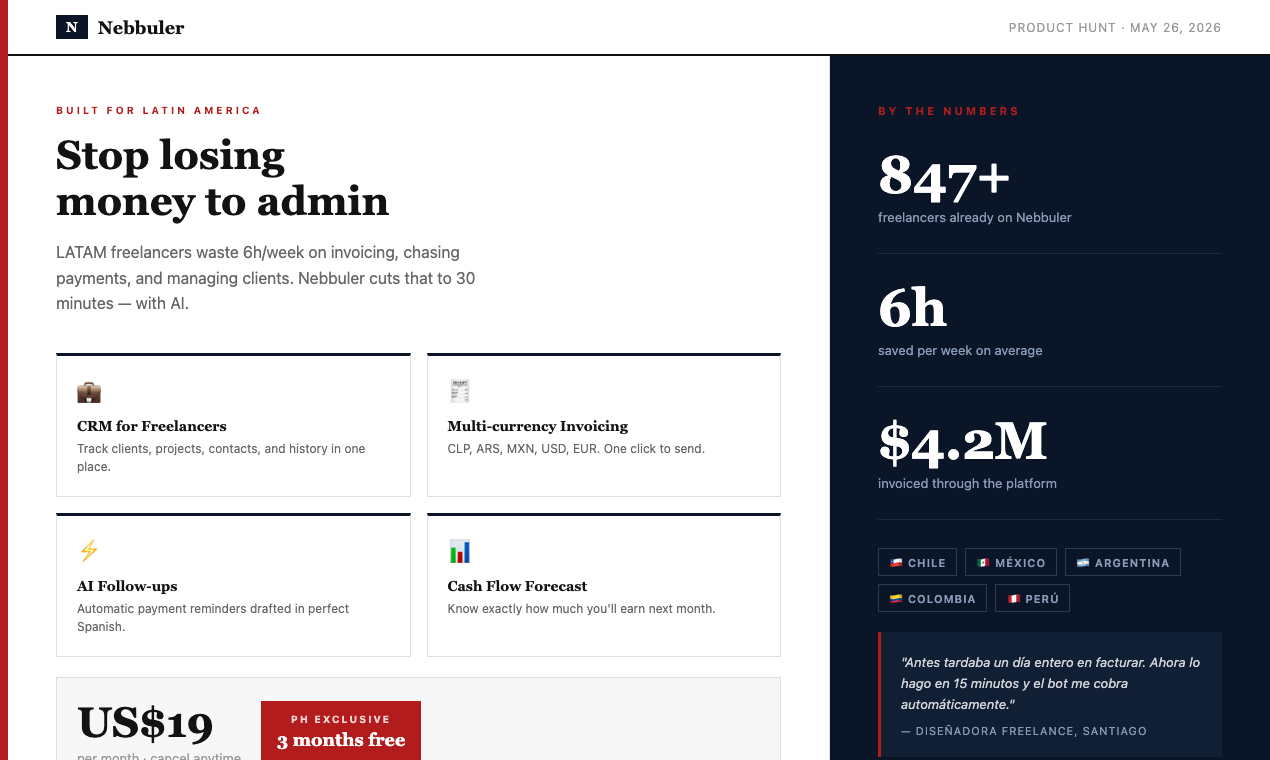
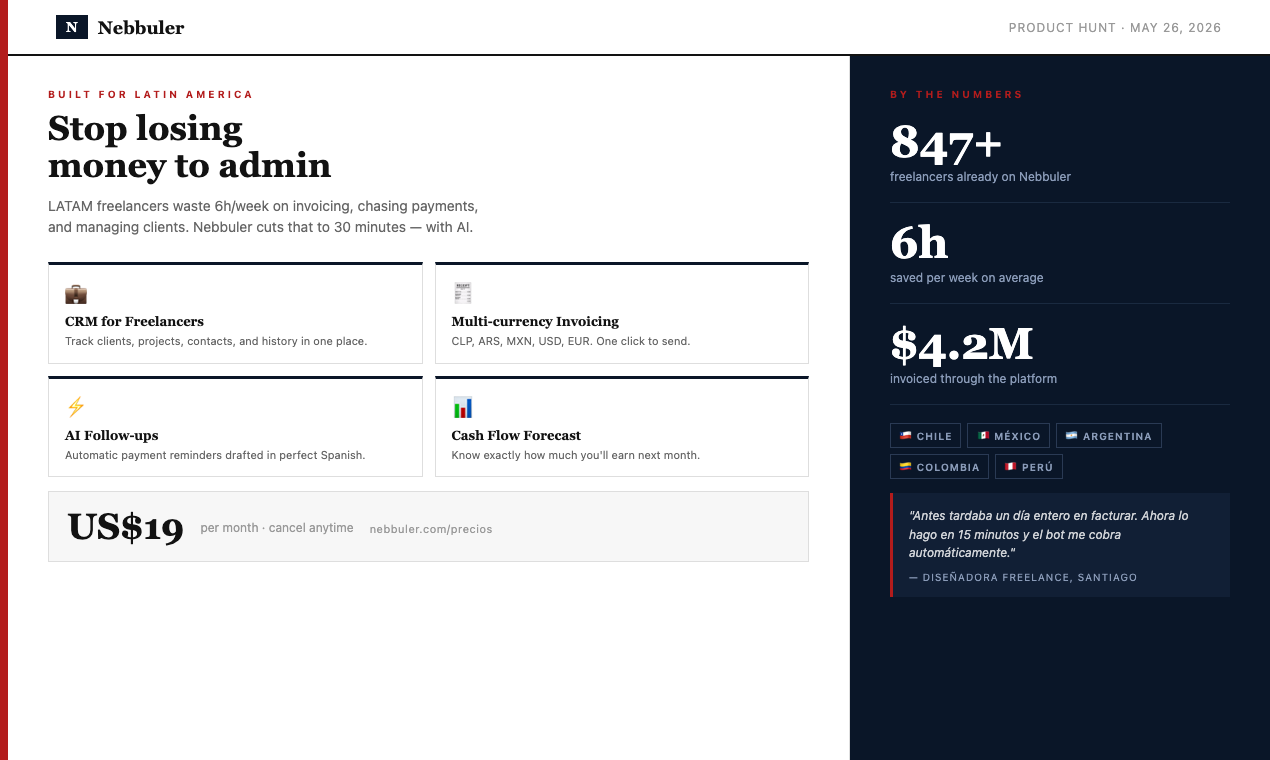
fix(product-hunt): gallery 3 — sin oferta, layout completo sin cortes

diff --git a/public/product-hunt/ph-gallery-3.html b/public/product-hunt/ph-gallery-3.html
@@ -31,55 +31,51 @@
     position: absolute; top: 56px; left: 8px; right: 0; bottom: 0;
     display: flex;
   }
-  .left-col { flex: 1; padding: 48px; border-right: 1px solid #DEDEDE; }
-  .right-col { width: 440px; padding: 48px; background: #0A1628; }
+  .left-col { flex: 1; padding: 32px 40px; border-right: 1px solid #DEDEDE; }
+  .right-col { width: 420px; padding: 32px 40px; background: #0A1628; }
   .section-eyebrow {
     font-size: 10px; font-weight: 700; letter-spacing: 3px; color: #B31C1C;
-    text-transform: uppercase; margin-bottom: 16px;
+    text-transform: uppercase; margin-bottom: 10px;
   }
-  h2 { font-family: Georgia, serif; font-size: 40px; line-height: 1.15; color: #121212; margin-bottom: 16px; }
-  .subtitle { font-size: 16px; color: #666; line-height: 1.6; margin-bottom: 36px; max-width: 440px; }
-  .features-grid { display: grid; grid-template-columns: 1fr 1fr; gap: 16px; }
+  h2 { font-family: Georgia, serif; font-size: 34px; line-height: 1.1; color: #121212; margin-bottom: 10px; }
+  .subtitle { font-size: 14px; color: #666; line-height: 1.55; margin-bottom: 24px; max-width: 440px; }
+  .features-grid { display: grid; grid-template-columns: 1fr 1fr; gap: 12px; }
   .feature-card {
-    border: 1px solid #DEDEDE; padding: 20px;
+    border: 1px solid #DEDEDE; padding: 14px 16px;
     border-top: 3px solid #0A1628;
   }
-  .feature-icon { font-size: 24px; margin-bottom: 10px; }
-  .feature-title { font-size: 14px; font-weight: 700; color: #121212; margin-bottom: 6px; font-family: Georgia, serif; }
-  .feature-desc { font-size: 12px; color: #666; line-height: 1.5; }
+  .feature-icon { font-size: 20px; margin-bottom: 6px; }
+  .feature-title { font-size: 13px; font-weight: 700; color: #121212; margin-bottom: 4px; font-family: Georgia, serif; }
+  .feature-desc { font-size: 11px; color: #666; line-height: 1.4; }
   .price-block {
-    border: 1px solid #DEDEDE; padding: 20px; margin-top: 20px;
-    background: #F7F7F7; display: flex; align-items: center; gap: 20px;
+    border: 1px solid #DEDEDE; padding: 14px 18px; margin-top: 14px;
+    background: #F7F7F7; display: flex; align-items: center; gap: 16px;
   }
-  .price-num { font-family: Georgia, serif; font-size: 42px; font-weight: 700; color: #121212; }
-  .price-period { font-size: 13px; color: #999; margin-top: 4px; }
-  .ph-badge {
-    background: #B31C1C; color: white; padding: 12px 16px; text-align: center;
-  }
-  .ph-badge-label { font-size: 10px; font-weight: 700; letter-spacing: 2px; text-transform: uppercase; margin-bottom: 4px; opacity: 0.8; }
-  .ph-badge-value { font-size: 18px; font-weight: 700; font-family: Georgia, serif; }
+  .price-num { font-family: Georgia, serif; font-size: 36px; font-weight: 700; color: #121212; }
+  .price-period { font-size: 12px; color: #999; margin-top: 3px; }
+  .price-sub { font-size: 11px; color: #999; margin-top: 4px; letter-spacing: 0.5px; }
 
   /* Right col — testimonials & stats */
   .right-title {
-    font-size: 11px; font-weight: 700; letter-spacing: 3px;
-    color: #B31C1C; text-transform: uppercase; margin-bottom: 32px;
+    font-size: 10px; font-weight: 700; letter-spacing: 3px;
+    color: #B31C1C; text-transform: uppercase; margin-bottom: 20px;
   }
-  .stat-item { margin-bottom: 28px; border-bottom: 1px solid #1a2a40; padding-bottom: 28px; }
+  .stat-item { margin-bottom: 18px; border-bottom: 1px solid #1a2a40; padding-bottom: 18px; }
   .stat-item:last-of-type { border-bottom: none; }
-  .big-stat { font-family: Georgia, serif; font-size: 52px; font-weight: 700; color: white; line-height: 1; }
-  .big-stat-label { font-size: 13px; color: #8a9bb8; margin-top: 8px; }
-  .countries { display: flex; gap: 8px; flex-wrap: wrap; margin-top: 20px; }
+  .big-stat { font-family: Georgia, serif; font-size: 44px; font-weight: 700; color: white; line-height: 1; }
+  .big-stat-label { font-size: 12px; color: #8a9bb8; margin-top: 5px; }
+  .countries { display: flex; gap: 6px; flex-wrap: wrap; margin-top: 14px; }
   .country-tag {
-    font-size: 11px; font-weight: 600; letter-spacing: 1px;
-    padding: 4px 10px; border: 1px solid #2a3a54; color: #8a9bb8;
+    font-size: 10px; font-weight: 600; letter-spacing: 1px;
+    padding: 3px 8px; border: 1px solid #2a3a54; color: #8a9bb8;
     text-transform: uppercase;
   }
   .quote {
-    background: #111f35; padding: 20px; margin-top: 20px;
+    background: #111f35; padding: 14px 16px; margin-top: 14px;
     border-left: 3px solid #B31C1C;
   }
-  .quote-text { font-size: 13px; color: rgba(255,255,255,0.8); line-height: 1.6; font-style: italic; }
-  .quote-author { font-size: 11px; color: #8a9bb8; margin-top: 10px; text-transform: uppercase; letter-spacing: 1px; }
+  .quote-text { font-size: 12px; color: rgba(255,255,255,0.8); line-height: 1.55; font-style: italic; }
+  .quote-author { font-size: 10px; color: #8a9bb8; margin-top: 8px; text-transform: uppercase; letter-spacing: 1px; }
 </style>
 </head>
 <body>
@@ -119,14 +115,9 @@
       </div>
     </div>
     <div class="price-block">
-      <div>
-        <div class="price-num">US$19</div>
-        <div class="price-period">per month · cancel anytime</div>
-      </div>
-      <div class="ph-badge">
-        <div class="ph-badge-label">PH Exclusive</div>
-        <div class="ph-badge-value">3 months free</div>
-      </div>
+      <div class="price-num">US$19</div>
+      <div class="price-period">per month · cancel anytime</div>
+      <div class="price-sub">nebbuler.com/precios</div>
     </div>
   </div>
   <div class="right-col">

diff --git a/public/product-hunt/PH-LAUNCH-COPY.md b/public/product-hunt/PH-LAUNCH-COPY.md
@@ -67,8 +67,6 @@ What you can do today:
 Why it's different: it's built for the reality of LATAM — multiple 
 currencies, local billing formats, and language that actually sounds human.
 
-🎁 PH Exclusive: Use code PRODUCTHUNT26 for 3 months free.
-
 One question for the community: if you're a freelancer or consultant, 
 which administrative task steals the most time from your week?
 
@@ -163,13 +161,6 @@ para freelancers en LATAM. Si tienen 30 segundos, sería increíble su apoyo:
 
 ---
 
-## EXCLUSIVE OFFER
-**Código: PRODUCTHUNT26**
-3 meses gratis en plan Pro (US$19/mes)
-Válido solo el día del lanzamiento y 48h después.
-
----
-
 ## ASSETS CHECKLIST
 | Asset | Archivo | Estado |
 |-------|---------|--------|
@@ -182,5 +173,4 @@ Válido solo el día del lanzamiento y 48h después.
 | Maker comment | En este doc | ✅ Listo |
 | LinkedIn post | En este doc | ✅ Listo |
 | X/Twitter post | En este doc | ✅ Listo |
-| Código PH exclusivo | PRODUCTHUNT26 | ⚠ Activar en Nebbuler |
 | Video demo | — | ❌ Pendiente (opcional pero recomendado) |
